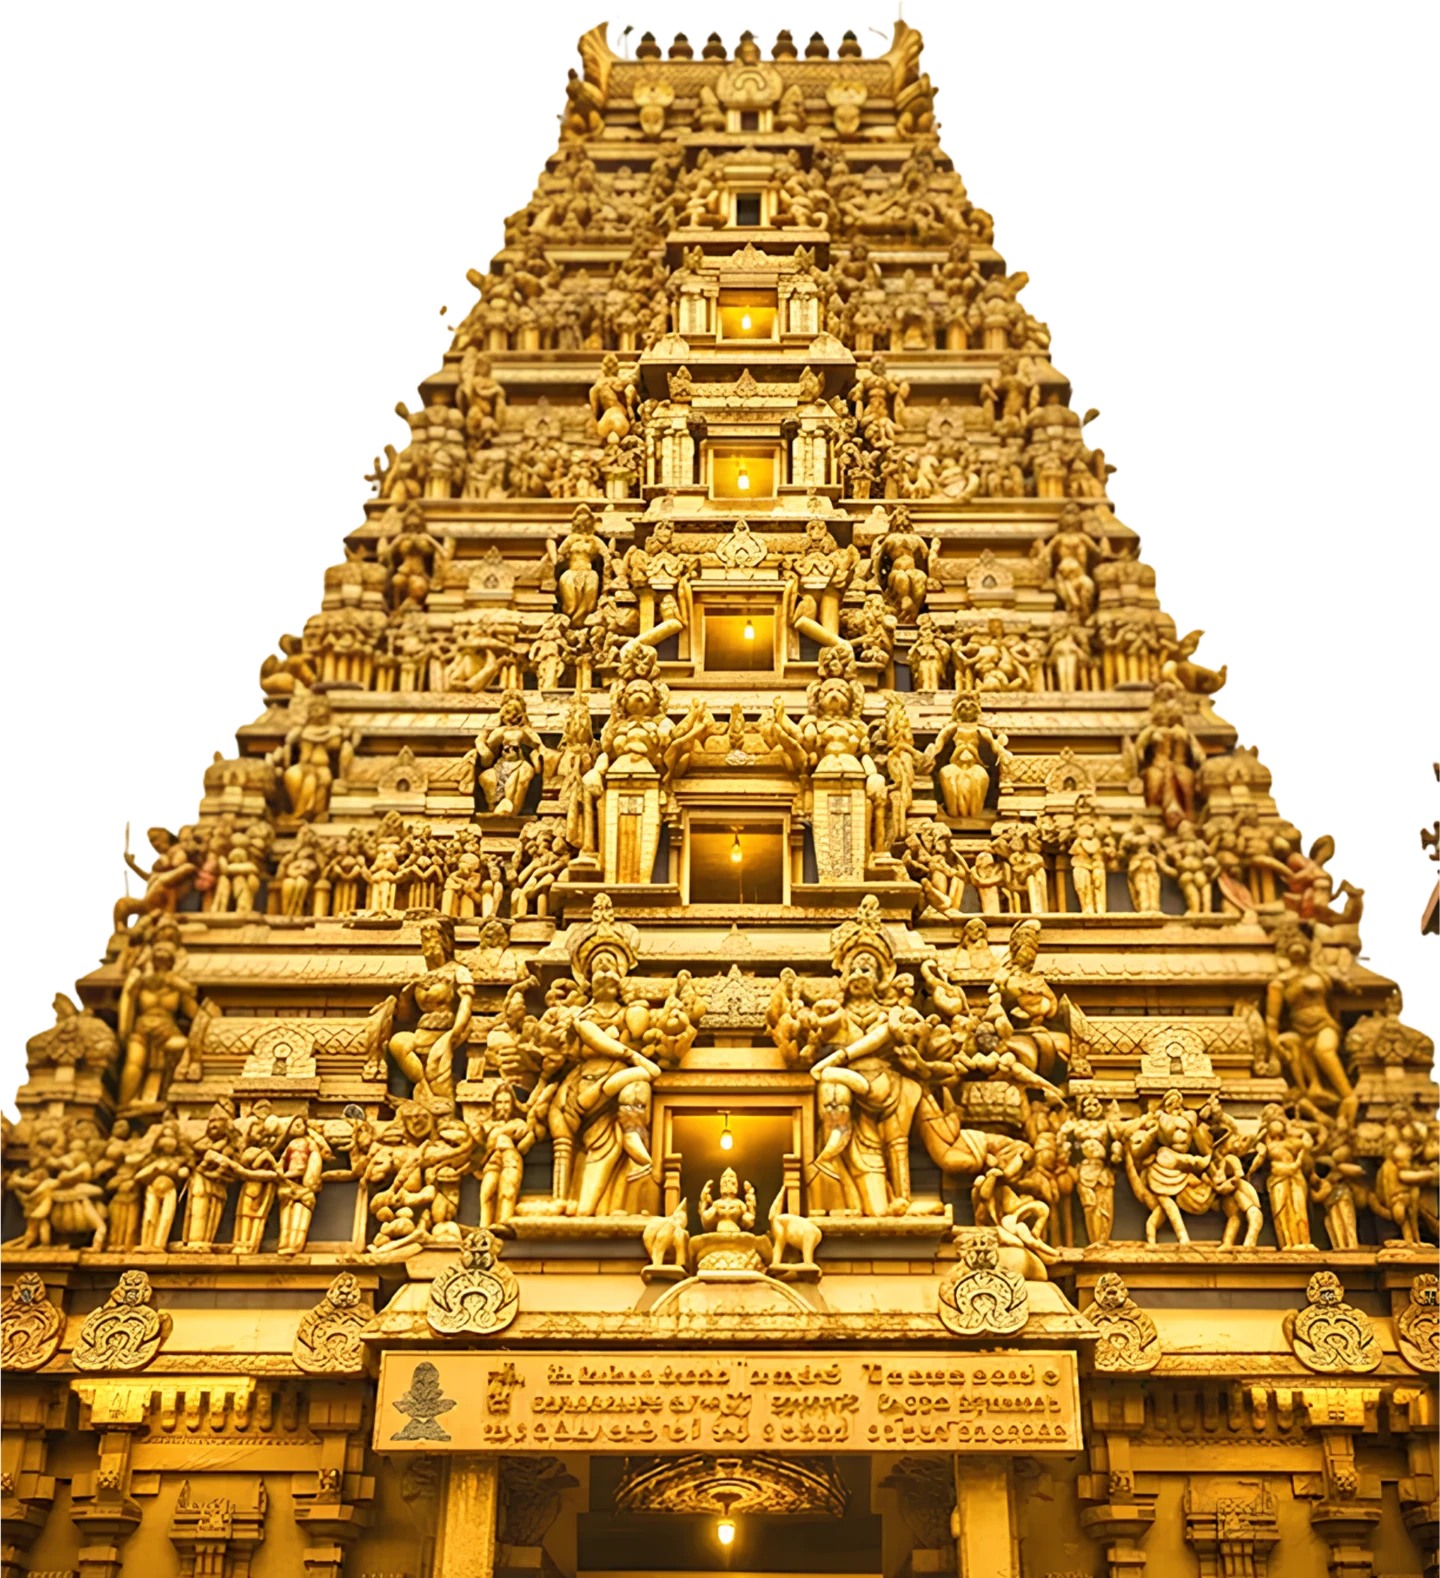
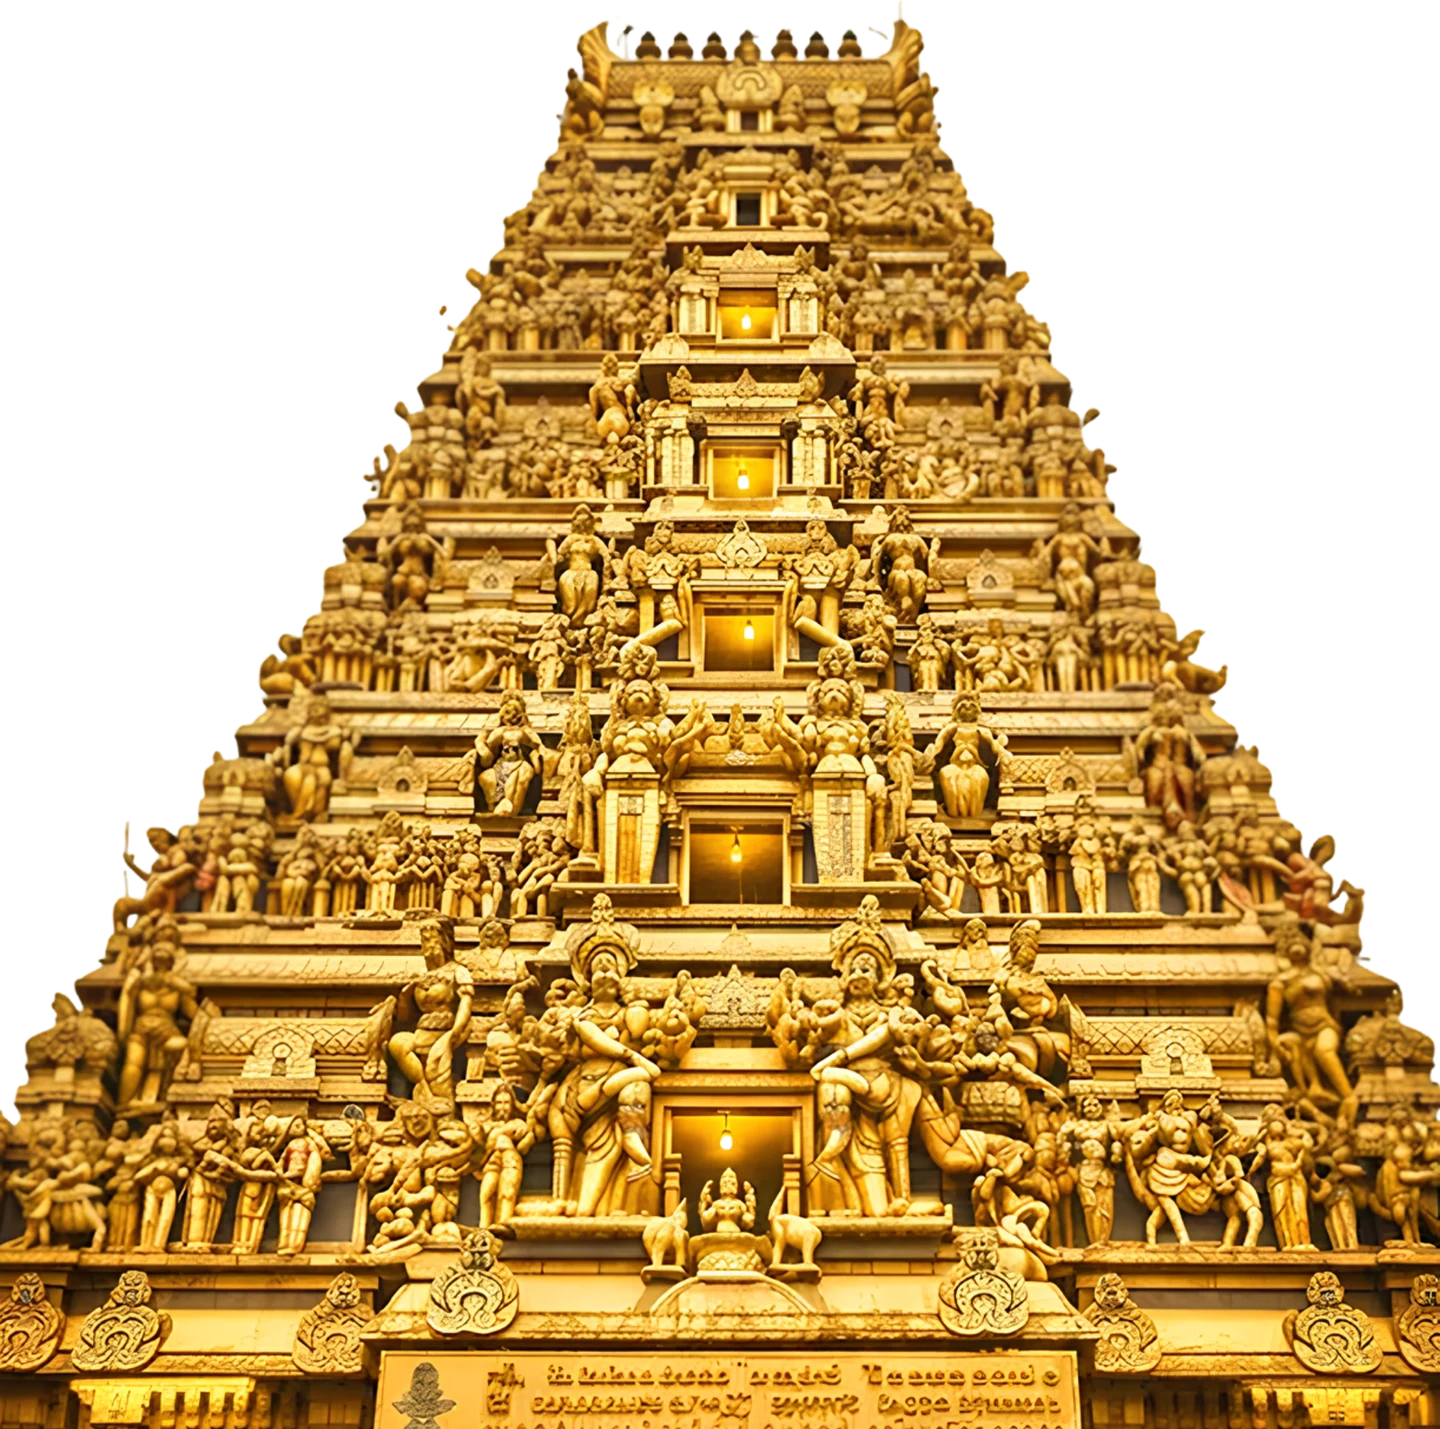
Rebuild hero on the painted courtyard backdrop
Replaces the CSS-painted sky/skyline with the user-supplied courtyard
backdrop (dusk sky, ocean, palm-lined plaza, altar platform). Koburam
now rises from behind the altar platform, with the glowing/neon-rimmed
Sivalingam and Nandhi placed on the platform's mandala inlay — sized
and positioned to match the relative scale from the earlier standalone
composition. Guardian pillars keep flanking the outer edges; the plank
logo moves to an independent title banner at the top since Koburam is
no longer the dominant full-height element.

Backdrop is rendered via an aspect-ratio-locked wrapper sized like
CSS background-size:cover (width = max(100%, 100vh*ratio)), so the
percentage-positioned overlays stay aligned with the painting's
platform/treeline regardless of viewport shape.

Re-keyed the regenerated Koburam.png — it shipped with an opaque white
background (alpha channel present but fully 255) rather than real
transparency, so trim() couldn't find its bounds; keyed near-white
pixels to alpha=0 by brightness/saturation before trimming.

diff --git a/components/Hero.tsx b/components/Hero.tsx
@@ -25,9 +25,10 @@ export default function Hero() {
     const tl = gsap.timeline({ defaults: { ease: 'power3.out' } });
     tl.from('.hero-pillar-l', { x: -60, opacity: 0, duration: 1.3 }, 0)
       .from('.hero-pillar-r', { x: 60, opacity: 0, duration: 1.3 }, 0)
-      .from('.hero-nav-row',  { y: -24, opacity: 0, duration: 1 }, .5)
-      .from('.temple-stack',  { scale: .82, opacity: 0, duration: 1.7, ease: 'back.out(1.3)' }, .4)
-      .from('.hero-plank',    { y: -24, opacity: 0, duration: 1 }, 1.1)
+      .from('.hero-plank',    { y: -24, opacity: 0, duration: 1 }, .3)
+      .from('.hero-nav-row',  { y: -24, opacity: 0, duration: 1 }, .7)
+      .from('.courtyard-scene .koburam-layer', { opacity: 0, duration: 1.4 }, .5)
+      .from('.courtyard-scene .altar-layer',   { scale: .8, opacity: 0, duration: 1.3, ease: 'back.out(1.3)' }, 1)
       .from('.hero-scroll',   { opacity: 0, duration: .8 }, 2.3);
   }, { scope: heroRef });
 
@@ -64,82 +65,53 @@ export default function Hero() {
     <section id="hero" ref={heroRef} className="relative w-full overflow-hidden"
              style={{ minHeight: '100svh', background: '#0c0a08' }}>
 
-      {/* ===== PAINTED DUSK SKY ===== */}
-      <div className="absolute inset-0 z-0" aria-hidden
-           style={{ background: 'linear-gradient(to bottom, #131b32 0%, #2c2f4d 18%, #5c5571 36%, #9b6f6a 52%, #d59259 66%, #4a3326 82%, #14100a 100%)' }} />
-      {/* Sun glow on horizon */}
-      <div className="absolute left-1/2 z-0 pointer-events-none" aria-hidden
-           style={{ top: '38%', width: 420, height: 420, transform: 'translate(-50%,-50%)', borderRadius: '50%',
-                    background: 'radial-gradient(circle, rgba(255,200,120,.35) 0%, rgba(255,150,80,.12) 45%, transparent 75%)' }} />
+      {/* ===== COURTYARD BACKDROP — painted dusk scene, sized/cropped like CSS background-size:cover
+           while staying aspect-ratio-locked so the Koburam/altar overlays (positioned by %) always
+           land on the same spot in the painting regardless of viewport shape ===== */}
+      <div className="courtyard-scene absolute z-0 pointer-events-none" aria-hidden
+           style={{ top: '50%', left: '50%', transform: 'translate(-50%,-50%)',
+                    width: 'max(100%, calc(100vh * 2390 / 1792))', aspectRatio: '2390 / 1792' }}>
+        <Image src="/images/courtyard-backdrop.webp" alt="New Kathiresan Kovil courtyard at dusk" fill priority quality={90}
+               sizes="100vw" className="object-cover" />
 
-      {/* ===== STARS ===== */}
-      <div className="absolute inset-0 z-[1] pointer-events-none" aria-hidden>
-        {Array.from({ length: 36 }).map((_, i) => (
-          <span key={i} style={{
-            position: 'absolute',
-            left: `${(i * 53) % 100}%`,
-            top: `${(i * 29) % 42}%`,
-            width: i % 5 === 0 ? 2 : 1, height: i % 5 === 0 ? 2 : 1,
-            borderRadius: '50%', background: '#fff',
-            opacity: .15 + (i % 4) * .12,
-          }} />
-        ))}
+        {/* Koburam — rises behind the altar platform, sized to clear the nav/plank header fully */}
+        <div className="koburam-layer absolute pointer-events-none"
+             style={{ width: '13%', bottom: '54%', left: '50%', transform: 'translateX(-50%)', aspectRatio: '2000 / 1985' }}>
+          <Image src="/images/koburam.webp" alt="Koburam — temple tower" fill quality={90}
+                 sizes="(max-width: 768px) 30vw, 320px" className="object-contain"
+                 style={{ objectPosition: 'center bottom', filter: 'drop-shadow(0 10px 20px rgba(0,0,0,.5))' }} />
+        </div>
+
+        {/* Altar group — Sivalingam (glowing, neon-rimmed) with Nandhi seated in front, on the mandala platform */}
+        <div className="altar-layer absolute pointer-events-none" style={{ left: '50%', bottom: '37%', transform: 'translateX(-50%)', width: '13%', aspectRatio: '1 / 1' }}>
+          {/* soft golden glow */}
+          <div className="absolute pointer-events-none"
+               style={{ bottom: '18%', left: '54%', width: '92%', height: '78%', transform: 'translate(-50%,0)',
+                        background: 'radial-gradient(ellipse, rgba(255,207,110,.6) 0%, rgba(232,197,71,.22) 45%, transparent 74%)',
+                        filter: 'blur(6px)', animation: 'glowDrift 7s ease-in-out infinite' }} />
+
+          {/* Sivalingam (shaft offset ~12.9% right of box-center — see Sivalingam notes elsewhere) */}
+          <div className="absolute" style={{ bottom: '14%', left: '56.8%', width: '61%', transform: 'translate(-50%,0)', aspectRatio: '1634 / 1878' }}>
+            <Image src="/images/siva-lingam.webp" alt="Sivalingam" fill quality={92}
+                   sizes="120px" className="object-contain"
+                   style={{ objectPosition: 'center bottom', filter: 'drop-shadow(0 0 10px rgba(255,207,110,.6)) drop-shadow(0 0 20px rgba(201,120,30,.4)) drop-shadow(0 4px 6px rgba(0,0,0,.5))' }} />
+          </div>
+          {/* thin white neon rim, gently pulsing */}
+          <div className="absolute pointer-events-none" aria-hidden
+               style={{ bottom: '14%', left: '56.8%', width: '61%', transform: 'translate(-50%,0)', aspectRatio: '1634 / 1878',
+                        animation: 'neonPulse 3.2s ease-in-out infinite' }}>
+            <Image src="/images/siva-lingam.webp" alt="" fill quality={92} className="object-contain"
+                   style={{ objectPosition: 'center bottom', filter: 'drop-shadow(0 0 1px #fff) drop-shadow(0 0 2px #fff) drop-shadow(0 0 4px #fff) drop-shadow(0 0 8px #fff)' }} />
+          </div>
+
+          {/* Nandhi — seated in front, at the platform */}
+          <div className="absolute" style={{ bottom: '0%', left: '50%', width: '39%', transform: 'translateX(-50%)', aspectRatio: '1462 / 1918' }}>
+            <Image src="/images/nandhi.webp" alt="Nandhi — Lord Shiva's sacred bull" fill quality={92}
+                   sizes="90px" className="object-contain"
+                   style={{ objectPosition: 'center bottom', filter: 'drop-shadow(0 6px 10px rgba(0,0,0,.6))' }} />
+          </div>
+        </div>
       </div>
-
-      {/* ===== TEMPLE SKYLINE SILHOUETTE ===== */}
-      <svg className="absolute bottom-0 left-0 right-0 z-[2] w-full" viewBox="0 0 1920 460"
-           preserveAspectRatio="xMidYMax slice" style={{ height: '38%' }} aria-hidden>
-        <defs>
-          <linearGradient id="skylineFade" x1="0" y1="0" x2="0" y2="1">
-            <stop offset="0%" stopColor="#1c1c28" stopOpacity=".88"/>
-            <stop offset="100%" stopColor="#0c0a08" stopOpacity=".96"/>
-          </linearGradient>
-        </defs>
-        {/* Palm trees — far left & right */}
-        <g fill="url(#skylineFade)" opacity=".8">
-          <path d="M70,460 L82,300 Q60,290 40,300 Q66,294 82,300 Q92,270 78,250 Q98,268 86,300 Q110,292 124,308 Q98,300 84,304 L96,460 Z"/>
-          <path d="M1850,460 L1838,310 Q1862,300 1882,312 Q1854,304 1838,310 Q1830,278 1846,258 Q1824,278 1834,310 Q1808,304 1796,320 Q1822,310 1836,314 L1824,460 Z"/>
-        </g>
-        {/* Side buildings (colonial-style w/ domes) */}
-        <g fill="url(#skylineFade)">
-          <rect x="190" y="330" width="190" height="130"/>
-          <rect x="225" y="295" width="34" height="40"/>
-          <circle cx="242" cy="290" r="17"/>
-          <rect x="320" y="300" width="30" height="35"/>
-          <circle cx="335" cy="296" r="15"/>
-          <rect x="1540" y="330" width="190" height="130"/>
-          <rect x="1660" y="295" width="34" height="40"/>
-          <circle cx="1677" cy="290" r="17"/>
-          <rect x="1580" y="300" width="30" height="35"/>
-          <circle cx="1595" cy="296" r="15"/>
-        </g>
-        {/* Central gopuram tower (stepped pyramid silhouette) */}
-        <g fill="url(#skylineFade)">
-          <rect x="860" y="380" width="200" height="80"/>
-          <rect x="878" y="330" width="164" height="56"/>
-          <rect x="894" y="286" width="132" height="50"/>
-          <rect x="908" y="248" width="104" height="44"/>
-          <rect x="922" y="214" width="76" height="40"/>
-          <rect x="936" y="184" width="48" height="36"/>
-          <polygon points="936,184 960,156 984,184"/>
-          <circle cx="960" cy="148" r="8"/>
-          {/* Tower decorative tiers */}
-          <rect x="884" y="376" width="192" height="6" opacity=".5"/>
-          <rect x="900" y="326" width="160" height="5" opacity=".5"/>
-          <rect x="916" y="282" width="128" height="5" opacity=".5"/>
-        </g>
-        {/* Distant tree line */}
-        <g fill="url(#skylineFade)" opacity=".55">
-          {Array.from({ length: 22 }).map((_, i) => (
-            <ellipse key={i} cx={120 + i * 80} cy={420} rx="34" ry="20"/>
-          ))}
-        </g>
-      </svg>
-
-      {/* ===== COURTYARD FLOOR GLOW ===== */}
-      <div className="absolute bottom-0 left-0 right-0 z-[3] pointer-events-none" aria-hidden
-           style={{ height: '46%',
-                    background: 'radial-gradient(ellipse 60% 100% at 50% 100%, rgba(232,197,71,.16) 0%, rgba(150,90,30,.10) 38%, transparent 72%)' }} />
 
       {/* Ember particles */}
       <canvas ref={canvasRef} className="absolute inset-0 w-full h-full z-[4] pointer-events-none" />
@@ -156,9 +128,17 @@ export default function Hero() {
                style={{ objectPosition: 'right bottom', filter: 'drop-shadow(-6px 8px 20px rgba(0,0,0,.65))' }} />
       </div>
 
+      {/* ===== STONE PLANK LOGO — title banner at the top of the scene ===== */}
+      <div className="hero-plank absolute left-1/2 z-[20] pointer-events-none"
+           style={{ top: 'clamp(16px, 3.2vh, 36px)', transform: 'translateX(-50%)', width: 'min(460px, 52vw)', aspectRatio: '3858 / 1548' }}>
+        <Image src="/images/logo-plank.webp" alt="Colombo Natyanjali — கொழும்பு நாட்டியாஞ்சலி" fill priority quality={92}
+               sizes="(max-width: 768px) 50vw, 460px" className="object-contain"
+               style={{ filter: 'drop-shadow(0 8px 18px rgba(0,0,0,.6))' }} />
+      </div>
+
       {/* ===== NAV ROW — real stone-plaque button assets ===== */}
       <div className="absolute left-1/2 z-[22] flex flex-col items-center pointer-events-none"
-           style={{ top: 'clamp(24px, 5vh, 56px)', transform: 'translateX(-50%)', width: 'min(1080px, 96vw)' }}>
+           style={{ top: 'clamp(150px, 24vh, 230px)', transform: 'translateX(-50%)', width: 'min(1080px, 96vw)' }}>
         <nav className="hero-nav-row pointer-events-auto flex flex-nowrap items-center justify-center gap-1 sm:gap-2"
              style={{ width: '100%' }}
              aria-label="Primary">
@@ -178,58 +158,6 @@ export default function Hero() {
             </a>
           ))}
         </nav>
-      </div>
-
-      {/* ===== TEMPLE STACK — Koburam (tower) → Sivalingam (glowing, from its midline) → Nandhi (front, at its base) ===== */}
-      <div className="temple-stack absolute z-[12] pointer-events-none"
-           style={{ left: '50%', bottom: 'clamp(14px, 3.5vh, 40px)', transform: 'translateX(-50%)',
-                    width: 'min(58vw, 70vh, 660px)', minWidth: 220, aspectRatio: '1822 / 1996' }}>
-
-        {/* 1. Koburam — the temple tower, back layer, fills the frame */}
-        <div className="absolute inset-0">
-          <Image src="/images/koburam.webp" alt="Koburam — temple tower of New Kathiresan Kovil" fill priority quality={90}
-                 sizes="(max-width: 768px) 68vw, 720px" className="object-contain"
-                 style={{ objectPosition: 'center top', filter: 'drop-shadow(0 24px 44px rgba(0,0,0,.6))' }} />
-        </div>
-
-        {/* Soft golden glow behind the Sivalingam */}
-        <div className="absolute pointer-events-none"
-             style={{ bottom: '4%', left: '56.8%', width: '64%', height: '62%', transform: 'translate(-50%,0)',
-                      background: 'radial-gradient(ellipse, rgba(255,207,110,.55) 0%, rgba(232,197,71,.2) 45%, transparent 74%)',
-                      filter: 'blur(20px)', animation: 'glowDrift 7s ease-in-out infinite' }} />
-
-        {/* 2. Sivalingam — enlarged, resting near the tower's base, glowing.
-            The trimmed asset's shaft sits ~12.9% left of its own bounding-box
-            center (its base/spout extends further right), so the box is offset
-            right of 50% to bring the visible shaft in line with Koburam/Nandhi. */}
-        <div className="absolute" style={{ bottom: '4%', left: '56.8%', width: '53%', transform: 'translate(-50%,0)', aspectRatio: '1634 / 1878' }}>
-          <Image src="/images/siva-lingam.webp" alt="Sivalingam" fill quality={92}
-                 sizes="(max-width: 768px) 36vw, 380px" className="object-contain"
-                 style={{ objectPosition: 'center bottom', filter: 'drop-shadow(0 0 28px rgba(255,207,110,.55)) drop-shadow(0 0 60px rgba(201,120,30,.35)) drop-shadow(0 14px 22px rgba(0,0,0,.55))' }} />
-        </div>
-
-        {/* Thin white neon rim tracing the Sivalingam's silhouette, gently pulsing */}
-        <div className="absolute pointer-events-none" aria-hidden
-             style={{ bottom: '4%', left: '56.8%', width: '53%', transform: 'translate(-50%,0)', aspectRatio: '1634 / 1878',
-                      animation: 'neonPulse 3.2s ease-in-out infinite' }}>
-          <Image src="/images/siva-lingam.webp" alt="" fill quality={92} className="object-contain"
-                 style={{ objectPosition: 'center bottom', filter: 'drop-shadow(0 0 1.5px #fff) drop-shadow(0 0 3px #fff) drop-shadow(0 0 6px #fff) drop-shadow(0 0 14px #fff) drop-shadow(0 0 26px #fff) drop-shadow(0 0 40px rgba(255,255,255,.85))' }} />
-        </div>
-
-        {/* 3. Nandhi — foremost layer, seated almost at the tower's base */}
-        <div className="absolute" style={{ bottom: '0.5%', left: '50%', width: '34%', transform: 'translateX(-50%)', aspectRatio: '1462 / 1918' }}>
-          <Image src="/images/nandhi.webp" alt="Nandhi — Lord Shiva's sacred bull" fill quality={92}
-                 sizes="(max-width: 768px) 24vw, 250px" className="object-contain"
-                 style={{ objectPosition: 'center bottom', filter: 'drop-shadow(0 16px 28px rgba(0,0,0,.65))' }} />
-        </div>
-
-        {/* 4. Stone plank logo — rests atop the Koburam's peak */}
-        <div className="hero-plank absolute z-[5] pointer-events-none"
-             style={{ top: '-7%', left: '50%', transform: 'translateX(-50%)', width: '46%', aspectRatio: '3858 / 1548' }}>
-          <Image src="/images/logo-plank.webp" alt="Colombo Natyanjali — கொழும்பு நாட்டியாஞ்சலி" fill priority quality={92}
-                 sizes="(max-width: 768px) 40vw, 400px" className="object-contain"
-                 style={{ filter: 'drop-shadow(0 10px 22px rgba(0,0,0,.6))' }} />
-        </div>
       </div>
 
       {/* Scroll cue */}

diff --git a/app/globals.css b/app/globals.css
@@ -272,9 +272,6 @@ html.lenis { height: auto; }
 section { position: relative; }
 
 @media (max-width: 640px) {
-  .temple-stack {
-    width: min(88vw, 66vh, 720px) !important;
-  }
   .hero-nav-btn {
     width: clamp(64px, 18.5vw, 130px) !important;
   }